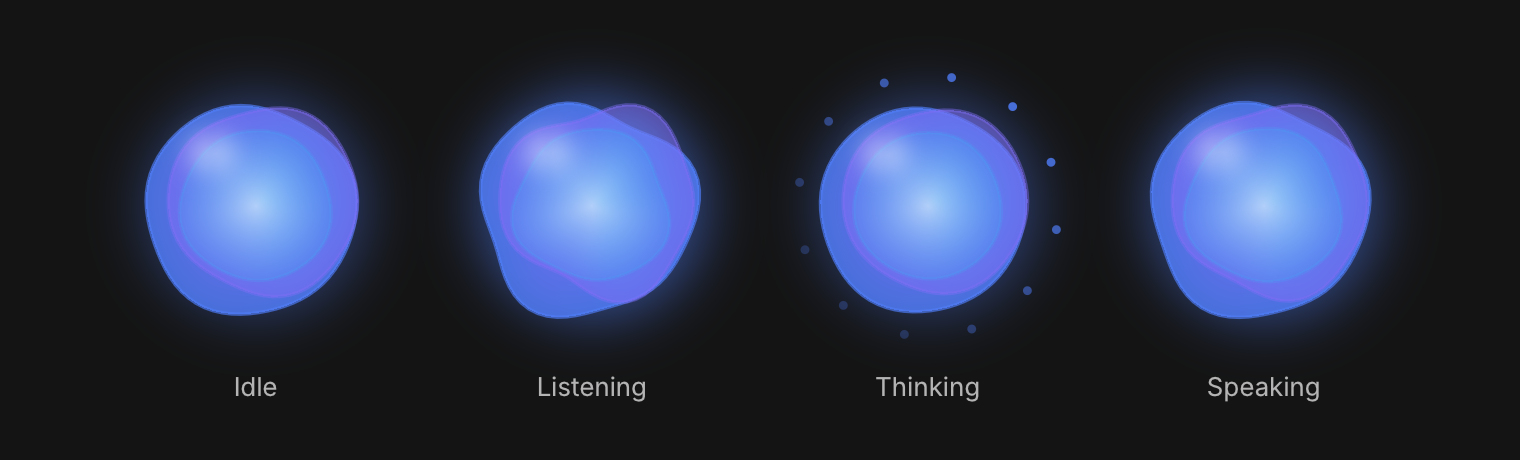
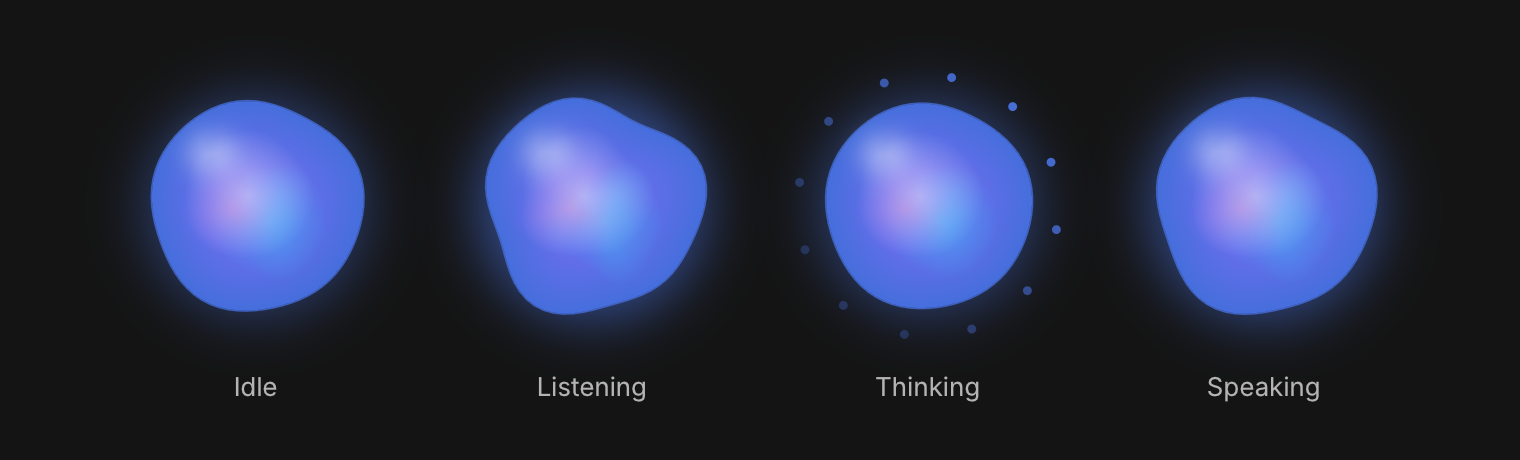
Voice orb: one silhouette with soft color swirls inside

diff --git a/src/cui_ai.c b/src/cui_ai.c
@@ -986,7 +986,7 @@ int cui_chat_composer_ex(cui_ctx *ui, const char *id_str, char *buf, size_t cap,
 typedef struct { cui_spring level, scale; float state_t[4]; bool init; } cui__orb_state;
 typedef struct { float t, level, w[4]; cui_color a, b, c; float hover; } cui__orb_paint;
 
-static void cui__orb_blob(cui_ctx *ui, cui_vec2 c, float r, float amp, float t, float seed, cui_color inner, cui_color outer) {
+static void cui__orb_blob(cui_ctx *ui, cui_vec2 c, float r, float amp, float t, float seed, cui_color inner, cui_color outer, bool edged) {
     enum { N = 72 };
     cui_cvert v[N + 1];
     uint32_t idx[N * 3];
@@ -1000,7 +1000,7 @@ static void cui__orb_blob(cui_ctx *ui, cui_vec2 c, float r, float amp, float t, 
     }
     for (int i = 0; i < N; i++) { idx[i * 3] = 0; idx[i * 3 + 1] = (uint32_t)(i + 1); idx[i * 3 + 2] = (uint32_t)((i + 1) % N + 1); }
     cui__draw_triangles(ui, v, N + 1, idx, N * 3);
-    cui_draw_polyline(ui, edge, N, 1.2f, cui_alpha(outer, 0.8f), true);   /* a soft edge */
+    if (edged) cui_draw_polyline(ui, edge, N, 1.2f, cui_alpha(outer, 0.8f), true);   /* a soft edge */
 }
 
 static void cui__paint_orb(cui_ctx *ui, cui_node *n, void *data) {
@@ -1017,9 +1017,15 @@ static void cui__paint_orb(cui_ctx *ui, cui_node *n, void *data) {
     cui_draw_shadow(ui, (cui_rect){ c.x - gr, c.y - gr, gr * 2, gr * 2 }, CUI_CORNERS(gr), R * 0.55f, 0, (cui_vec2){ 0, 0 },
                     cui_alpha(p->a, 0.4f + 0.15f * p->hover + 0.2f * p->level * (listen + speak)));
     float rr = R * breath * pulse;
-    cui__orb_blob(ui, (cui_vec2){ c.x - R * 0.06f, c.y + R * 0.04f }, rr, amp, p->t, 0.0f, cui_alpha(p->b, 0.9f), cui_alpha(p->a, 0.85f));
-    cui__orb_blob(ui, (cui_vec2){ c.x + R * 0.08f, c.y - R * 0.05f }, rr * 0.9f, amp * 1.2f, p->t * 1.15f, 2.1f, cui_alpha(p->c, 0.75f), cui_alpha(p->b, 0.55f));
-    cui__orb_blob(ui, c, rr * 0.72f, amp * 0.8f, p->t * 0.8f, 4.2f, cui_alpha(cui__rgba(255, 255, 255, 255), 0.55f), cui_alpha(p->c, 0.25f));
+    /* one silhouette; the color inside drifts in swirls that fade out before they reach the edge */
+    cui__orb_blob(ui, c, rr, amp, p->t, 0.0f, p->b, cui_mix(p->a, cui__rgba(0, 0, 0, 255), 0.08f), true);
+    float sa = p->t * 0.7f, sb = p->t * 0.55f + 2.4f;
+    cui__orb_blob(ui, (cui_vec2){ c.x + cosf(sa) * R * 0.2f, c.y + sinf(sa) * R * 0.2f }, rr * 0.56f, amp * 1.6f, p->t * 1.2f, 2.1f,
+                  cui_alpha(p->c, 0.85f), cui_alpha(p->c, 0), false);
+    cui__orb_blob(ui, (cui_vec2){ c.x + cosf(sb) * R * 0.22f, c.y + sinf(sb) * R * 0.22f }, rr * 0.5f, amp * 1.4f, p->t * 0.9f, 4.2f,
+                  cui_alpha(cui_mix(p->b, cui__rgba(0xec, 0x48, 0x99, 255), 0.35f), 0.7f), cui_alpha(p->b, 0), false);
+    cui__orb_blob(ui, (cui_vec2){ c.x - R * 0.08f, c.y - R * 0.1f }, rr * 0.62f, amp, p->t * 0.8f, 5.3f,
+                  cui_alpha(cui__rgba(255, 255, 255, 255), 0.42f), cui_alpha(cui__rgba(255, 255, 255, 255), 0), false);
     /* a soft specular light, upper left, like glass catching a lamp */
     float hs = rr * 0.42f;
     cui_rect hl = { c.x - rr * 0.42f - hs * 0.5f, c.y - rr * 0.46f - hs * 0.5f, hs, hs * 0.8f };
